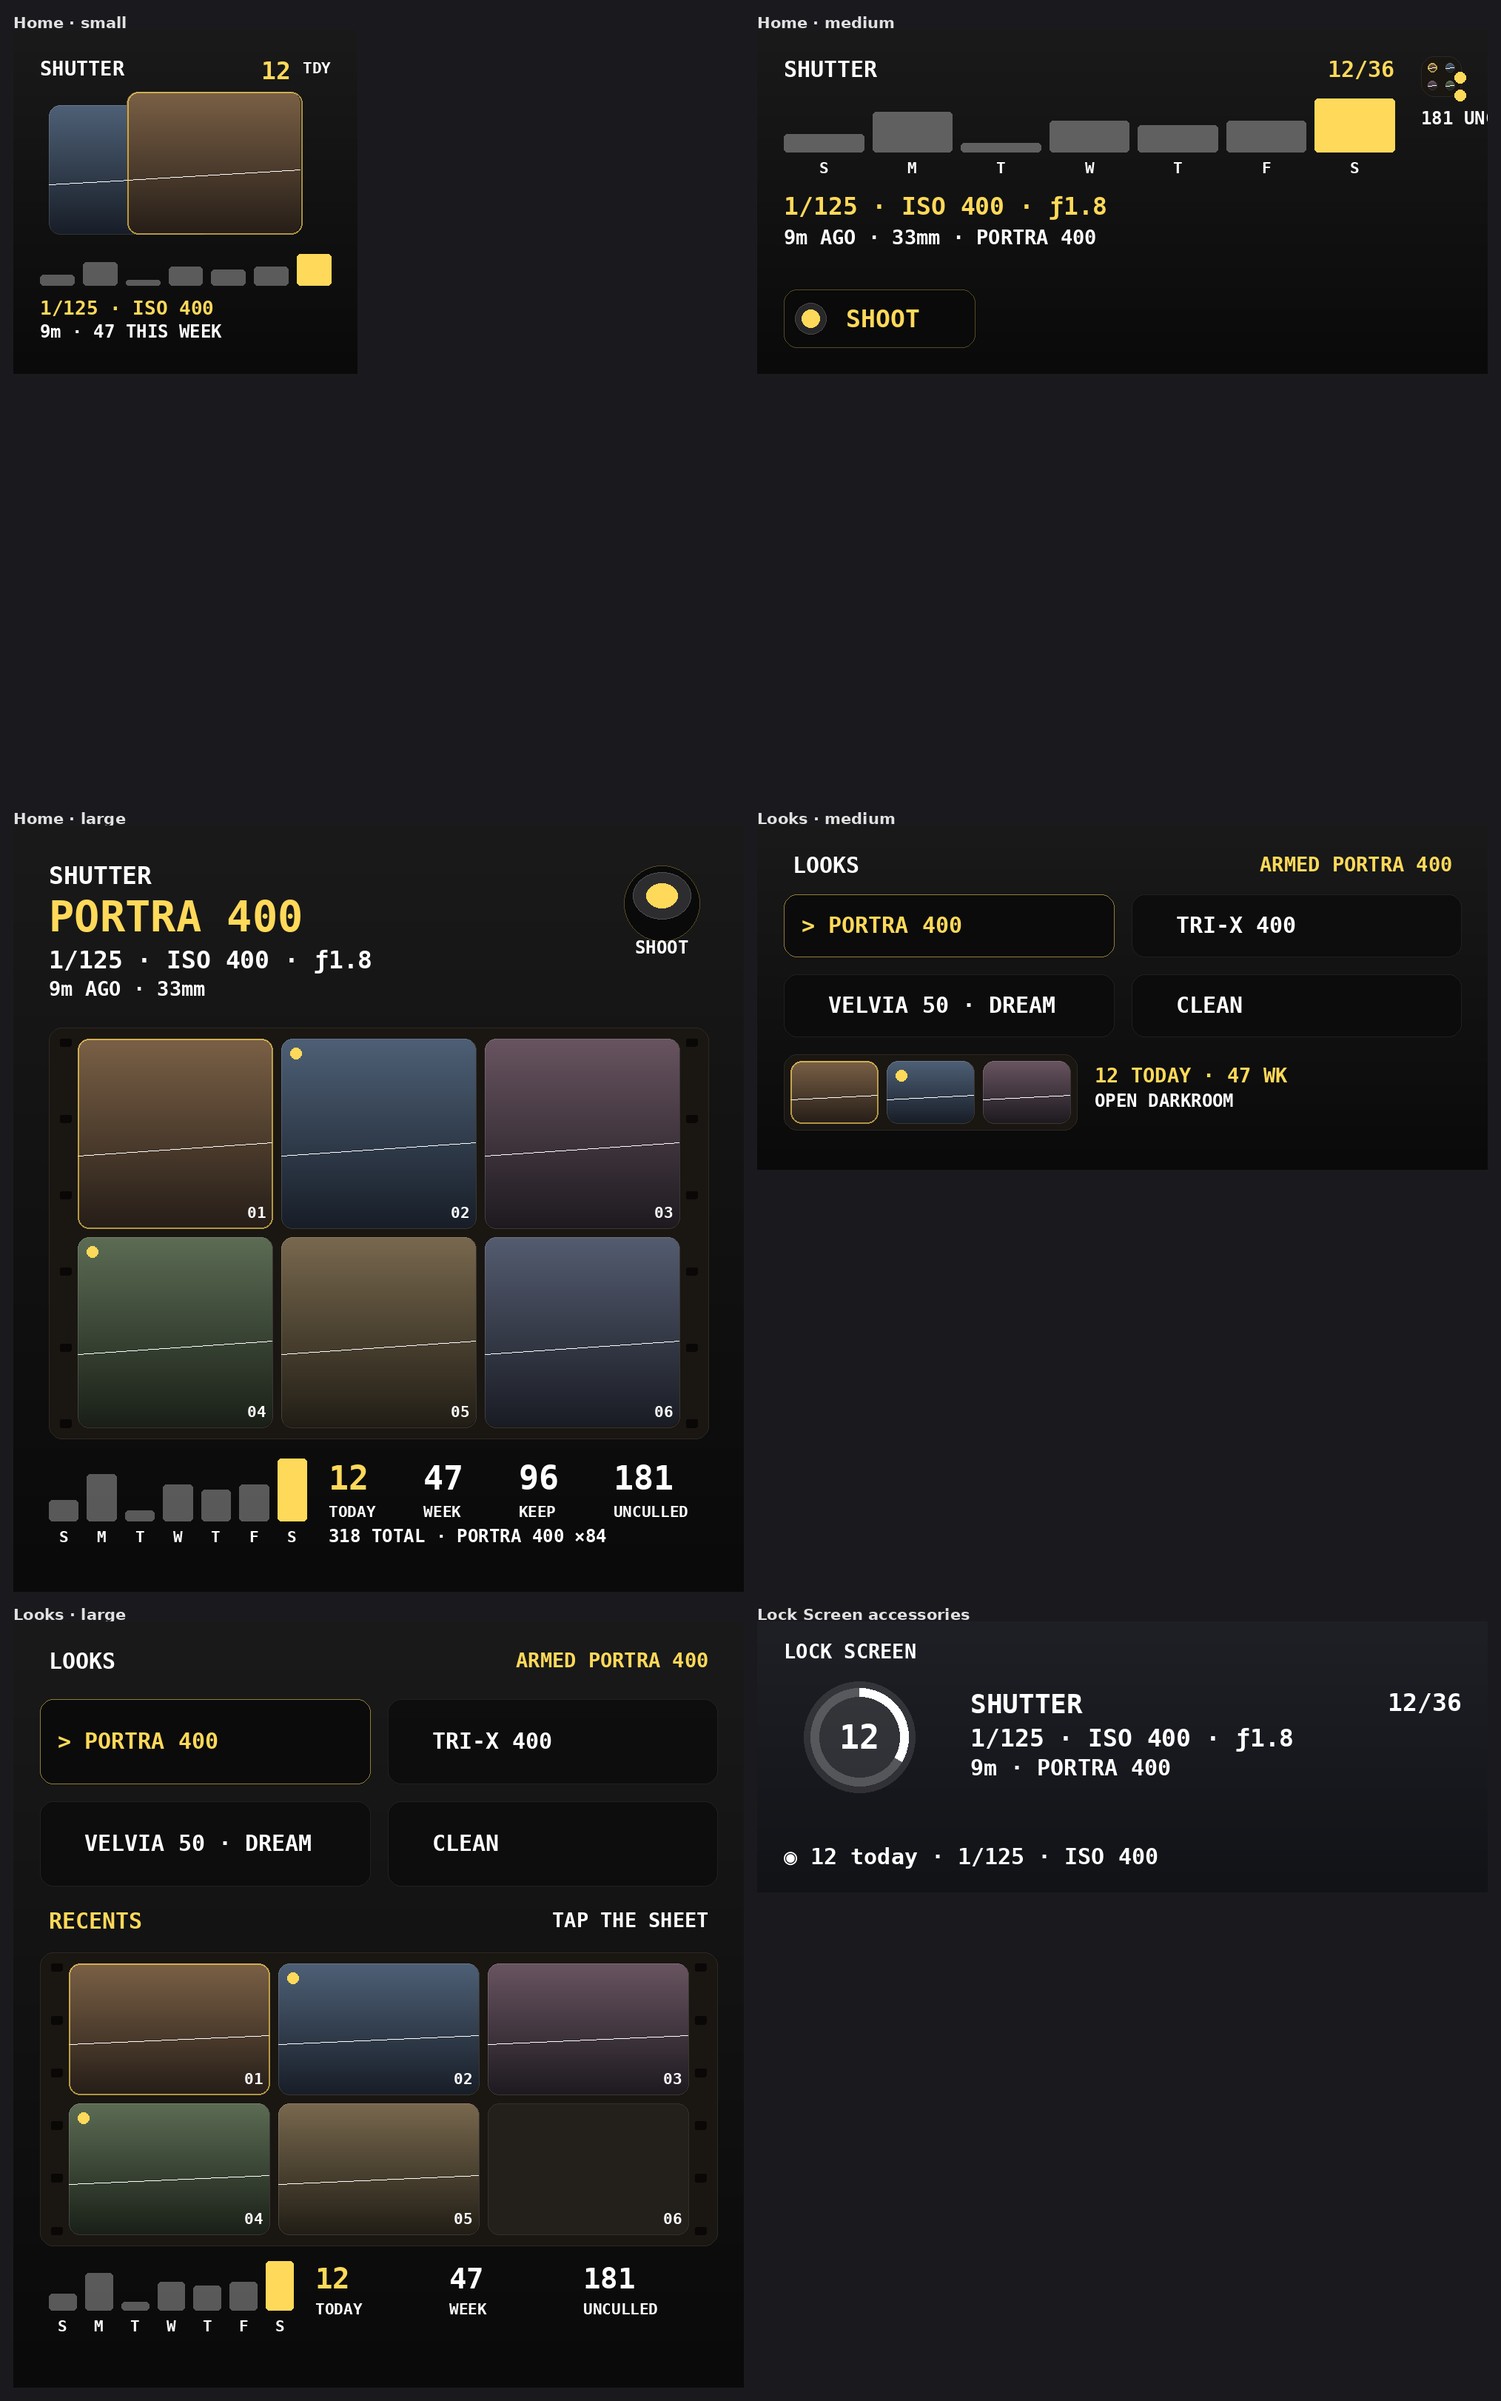
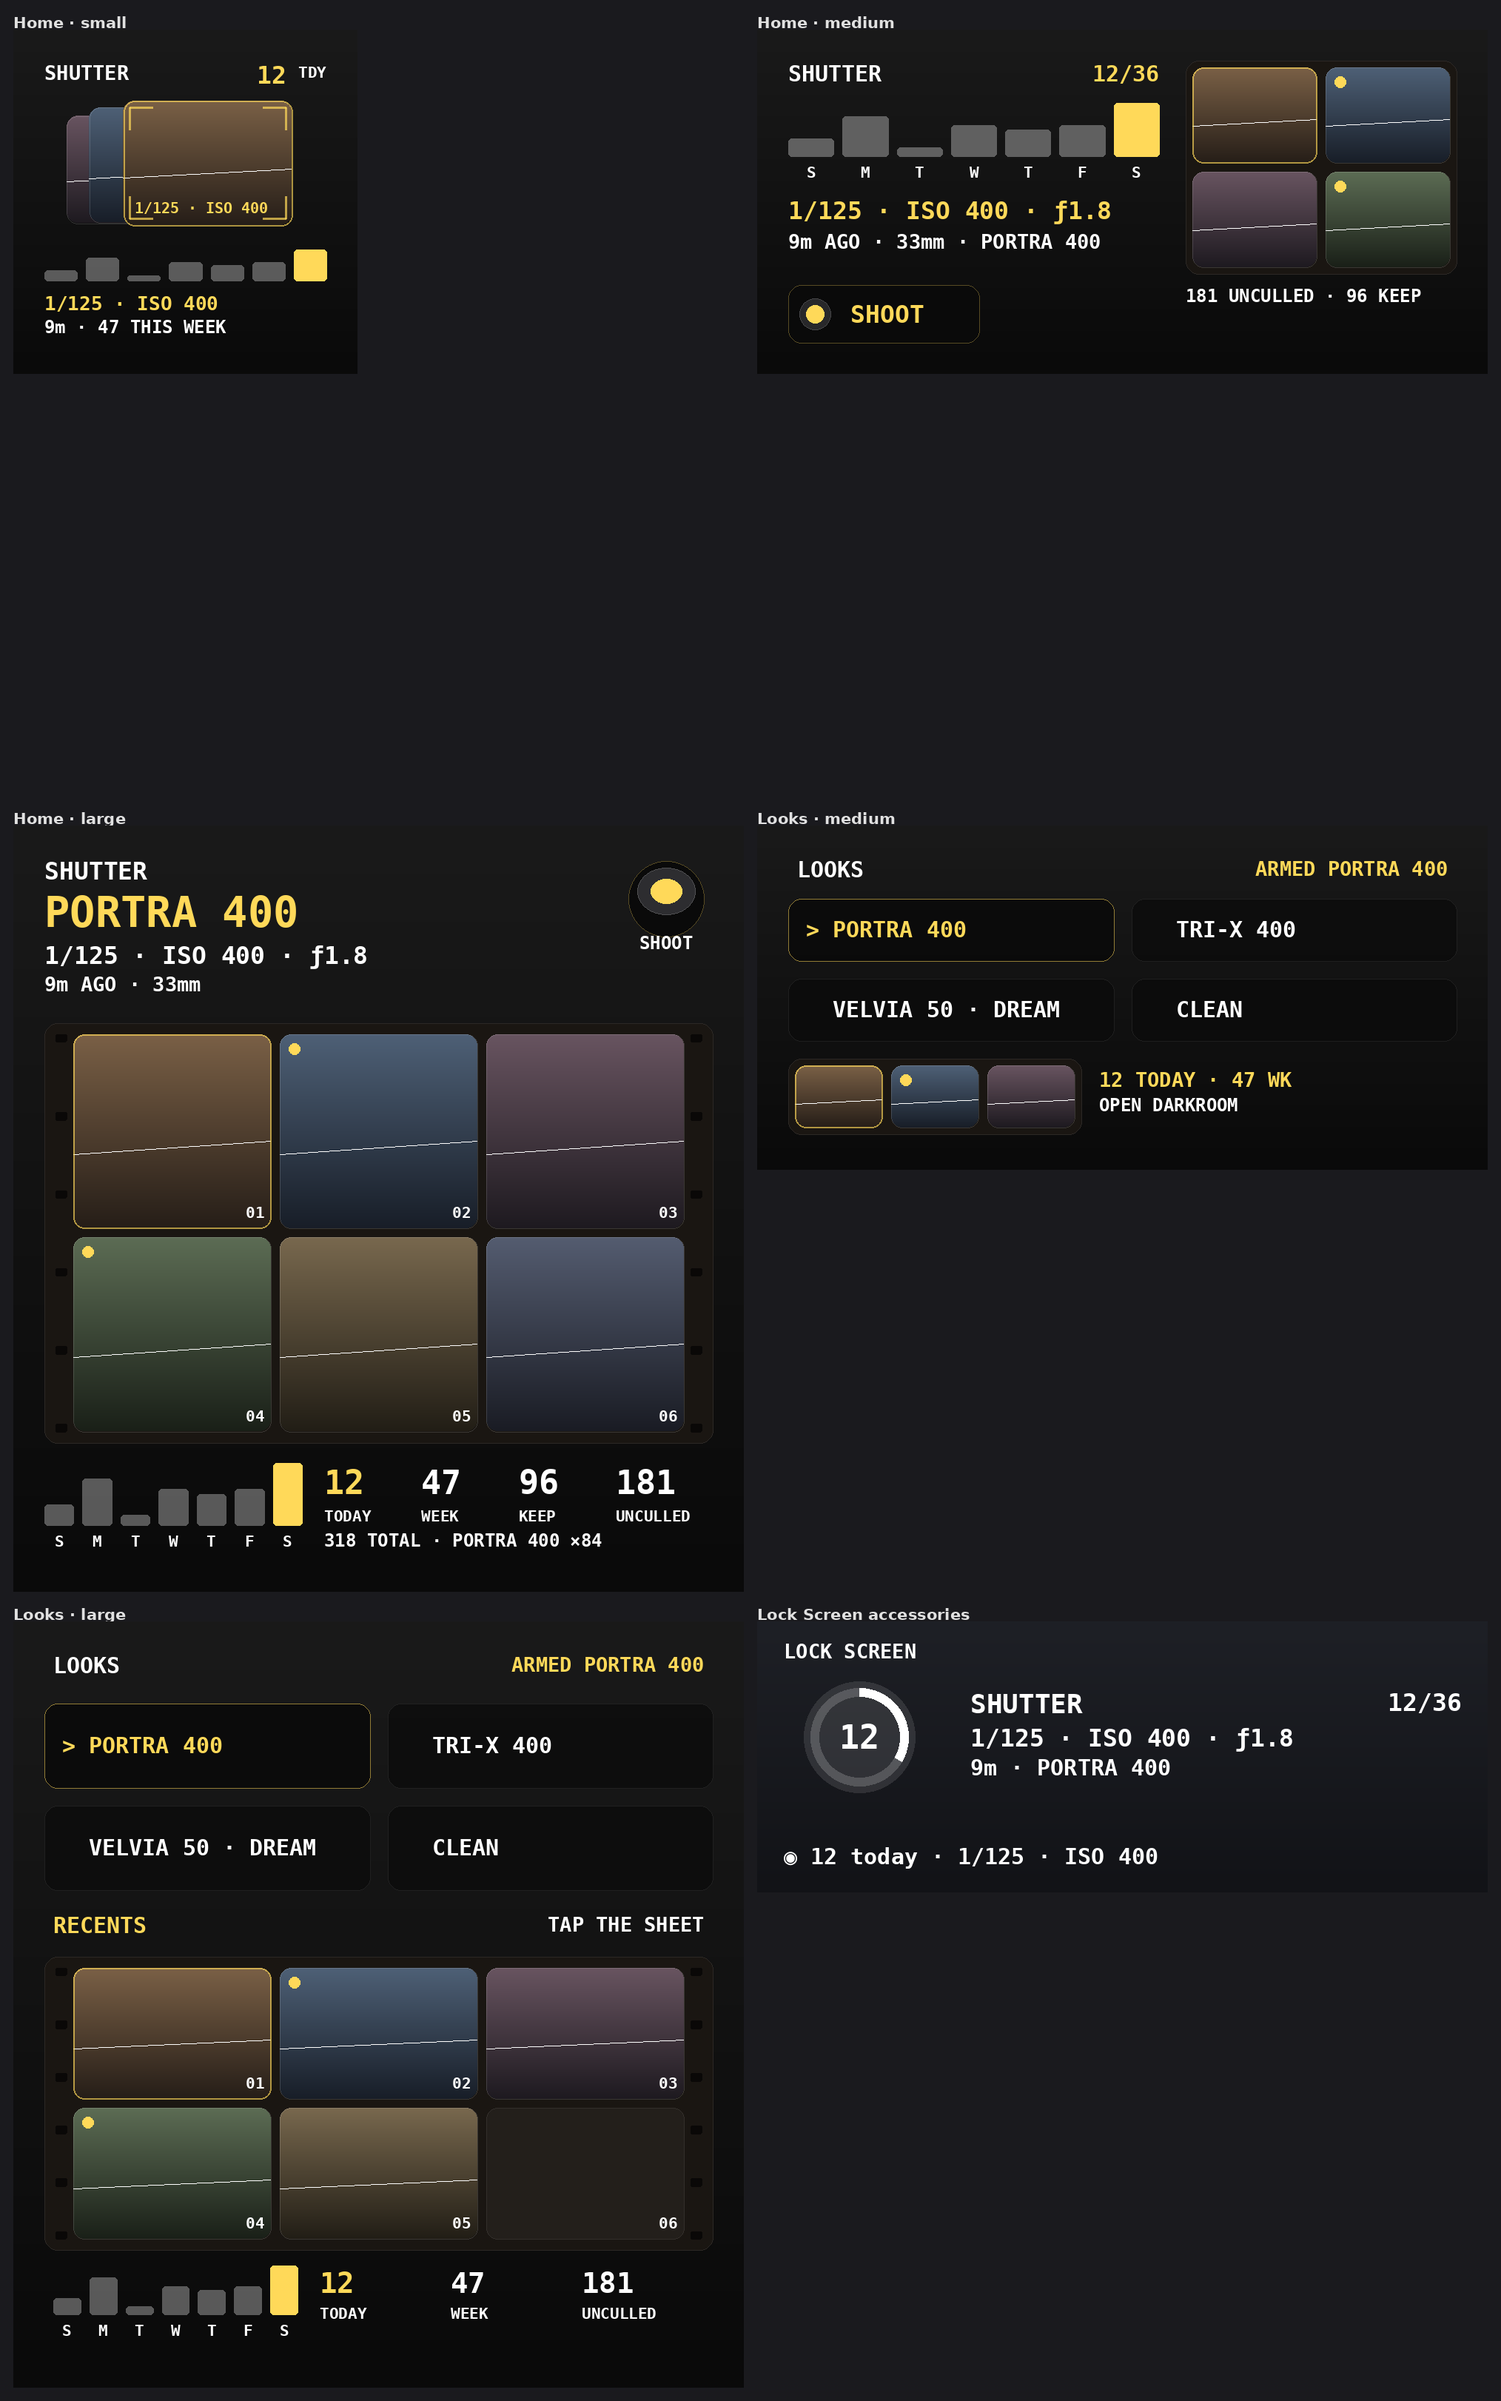
Build 102: fix contentPad parsers and refresh widget previews
Stress/layout parsers resolve WidgetPalette.contentPad instead of
inner literal pads; regenerate SE faces for the fan stack + sheet.

diff --git a/scripts/stress_test_shutter.py b/scripts/stress_test_shutter.py
@@ -1228,7 +1228,18 @@ def test_widget_content() -> None:
     _, med_h = WIDGET_BOX["medium"]
     _, large_h = WIDGET_BOX["large"]
 
-    pad = parse_int(medium, r"\.padding\((\d+)\)", "launch medium padding", 12, last=True)
+    # Build 102 — outer pad is WidgetPalette.contentPad on every Home face.
+    content_pad = parse_int(
+        wsrc, r"static let contentPad: CGFloat = (\d+)", "shared contentPad", 14
+    )
+
+    def face_pad(chunk: str, name: str, fallback: int) -> int:
+        if "WidgetPalette.contentPad" in chunk:
+            check(f"widget parses {name}", True)
+            return content_pad
+        return parse_int(chunk, r"\.padding\((\d+)\)", name, fallback, last=True)
+
+    pad = face_pad(medium, "launch medium padding", 14)
     gap = parse_int(medium, r"VStack\(alignment: \.leading, spacing: (\d+)\)", "launch medium gap", 6)
     bars = parse_int(medium, r"barHeight: (\d+)", "launch medium bar height", 24)
     sheet = parse_int(medium, r"\.frame\(width: 122, height: (\d+)\)", "launch medium sheet", 96)
@@ -1245,7 +1256,7 @@ def test_widget_content() -> None:
     check("launch medium sheet fits", right <= budget, f"{right}pt in {budget}pt")
 
     looks = source_chunk(wsrc, "struct ShutterLooksView", "// MARK: - Lock Screen")
-    lpad = parse_int(looks, r"\.padding\((\d+)\)", "looks padding", 12, last=True)
+    lpad = face_pad(looks, "looks padding", 14)
     lgap = parse_int(looks, r"spacing: family == \.systemLarge \? \d+ : (\d+)", "looks medium gap", 6)
     chip = parse_int(looks, r"minHeight: family == \.systemLarge \? \d+ : (\d+)", "looks chip", 30)
     strip = parse_int(looks, r"\.frame\(width: 132, height: (\d+)\)", "looks strip", 34)
@@ -1271,7 +1282,7 @@ def test_widget_content() -> None:
         f"{looks_large}pt in {large_h - lpad * 2}pt",
     )
 
-    lgpad = parse_int(large, r"\.padding\((\d+)\)", "launch large padding", 16, last=True)
+    lgpad = face_pad(large, "launch large padding", 14)
     lggap = parse_int(large, r"VStack\(alignment: \.leading, spacing: (\d+)\)", "launch large gap", 9)
     lgbars = parse_int(large, r"barHeight: (\d+)", "launch large bars", 28)
     header = max(

diff --git a/scripts/widget_layout_preview.py b/scripts/widget_layout_preview.py
@@ -98,8 +98,9 @@ def parse_geometry() -> dict:
         "med_pad": body_pad(medium, 14),
         "med_gap": num(medium, r"VStack\(alignment: \.leading, spacing: (\d+)\)", 6),
         "med_bars": num(medium, r"barHeight: (\d+)", 24),
-        "med_sheet_w": num(medium, r"\.frame\(width: (\d+), height: \d+\)", 122),
-        "med_sheet_h": num(medium, r"\.frame\(width: \d+, height: (\d+)\)", 96),
+        # Explicit 122×96 — don't confuse with the compact shoot chip's 18×18.
+        "med_sheet_w": num(medium, r"\.frame\(width: (122), height: \d+\)", 122),
+        "med_sheet_h": num(medium, r"\.frame\(width: 122, height: (\d+)\)", 96),
         "large_pad": body_pad(large, 14),
         "large_gap": num(large, r"VStack\(alignment: \.leading, spacing: (\d+)\)", 9),
         "large_bars": num(large, r"barHeight: (\d+)", 28),
